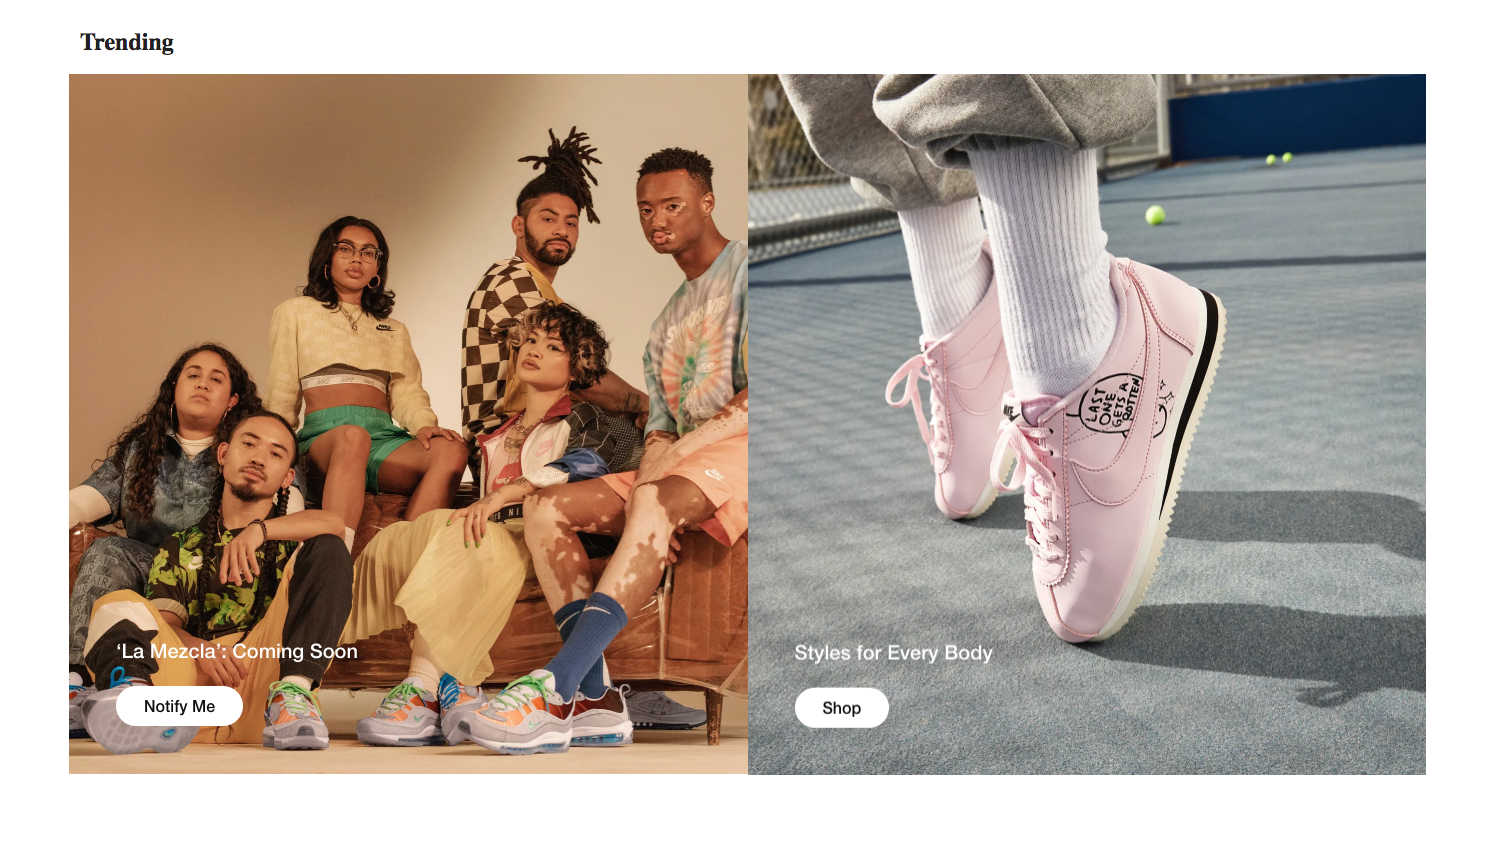
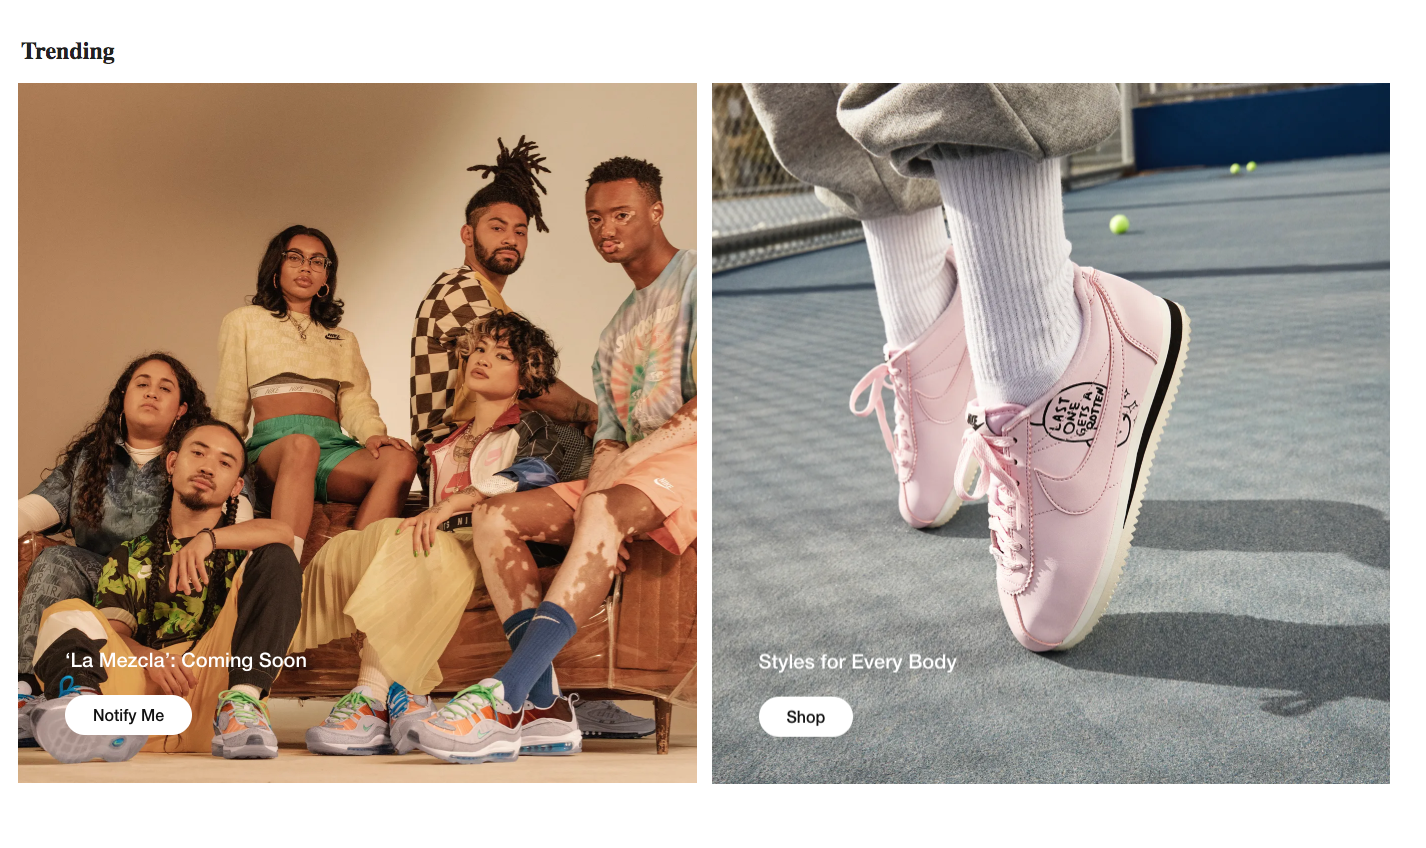
add margin spacing on images and rework README.md

diff --git a/src/app/lower/lower.component.css b/src/app/lower/lower.component.css
@@ -8,6 +8,10 @@
   justify-content: center;
 }
 
+img {
+  margin-right: 15px;
+}
+
 
 .textInfo {
   /* margin-left: 50px; */
@@ -42,7 +46,7 @@ h4 {
 }
 
 h2 {
-  margin-left: 105px;
+  margin-left: 130px;
 }
 
 

diff --git a/src/app/mid-lower/mid-lower.component.css b/src/app/mid-lower/mid-lower.component.css
@@ -19,5 +19,10 @@ justify-content: center;
 
 
 h2 {
-  margin-left: 105px;
+  margin-left: 130px;
+}
+
+img {
+  margin-right: 15px;
+  margin-top: 15px;
 }

diff --git a/src/app/lower-upper/lower-upper.component.css b/src/app/lower-upper/lower-upper.component.css
@@ -9,5 +9,9 @@
 }
 
 h2 {
-  margin-left: 105px;
+  margin-left: 130px;
+}
+
+img {
+  margin-right: 15px;
 }

diff --git a/src/app/mid/mid.component.css b/src/app/mid/mid.component.css
@@ -9,5 +9,9 @@
 }
 
 h2 {
-  margin-left: 105px;
+  margin-left: 130px;
+}
+
+img {
+  margin-right: 15px;
 }

diff --git a/README.md b/README.md
@@ -67,6 +67,7 @@ Run `ng e2e` to execute the end-to-end tests via [Protractor](http://www.protrac
 ![application example](src/assets/img/build-two.png)
 ![application example](src/assets/img/build-three.png)
 ![application example](src/assets/img/build-four.png)
+![application example](src/assets/img/build-five.png)
 
 ## Known Bugs
 _As of March 29th 2019 there are no known bugs_
